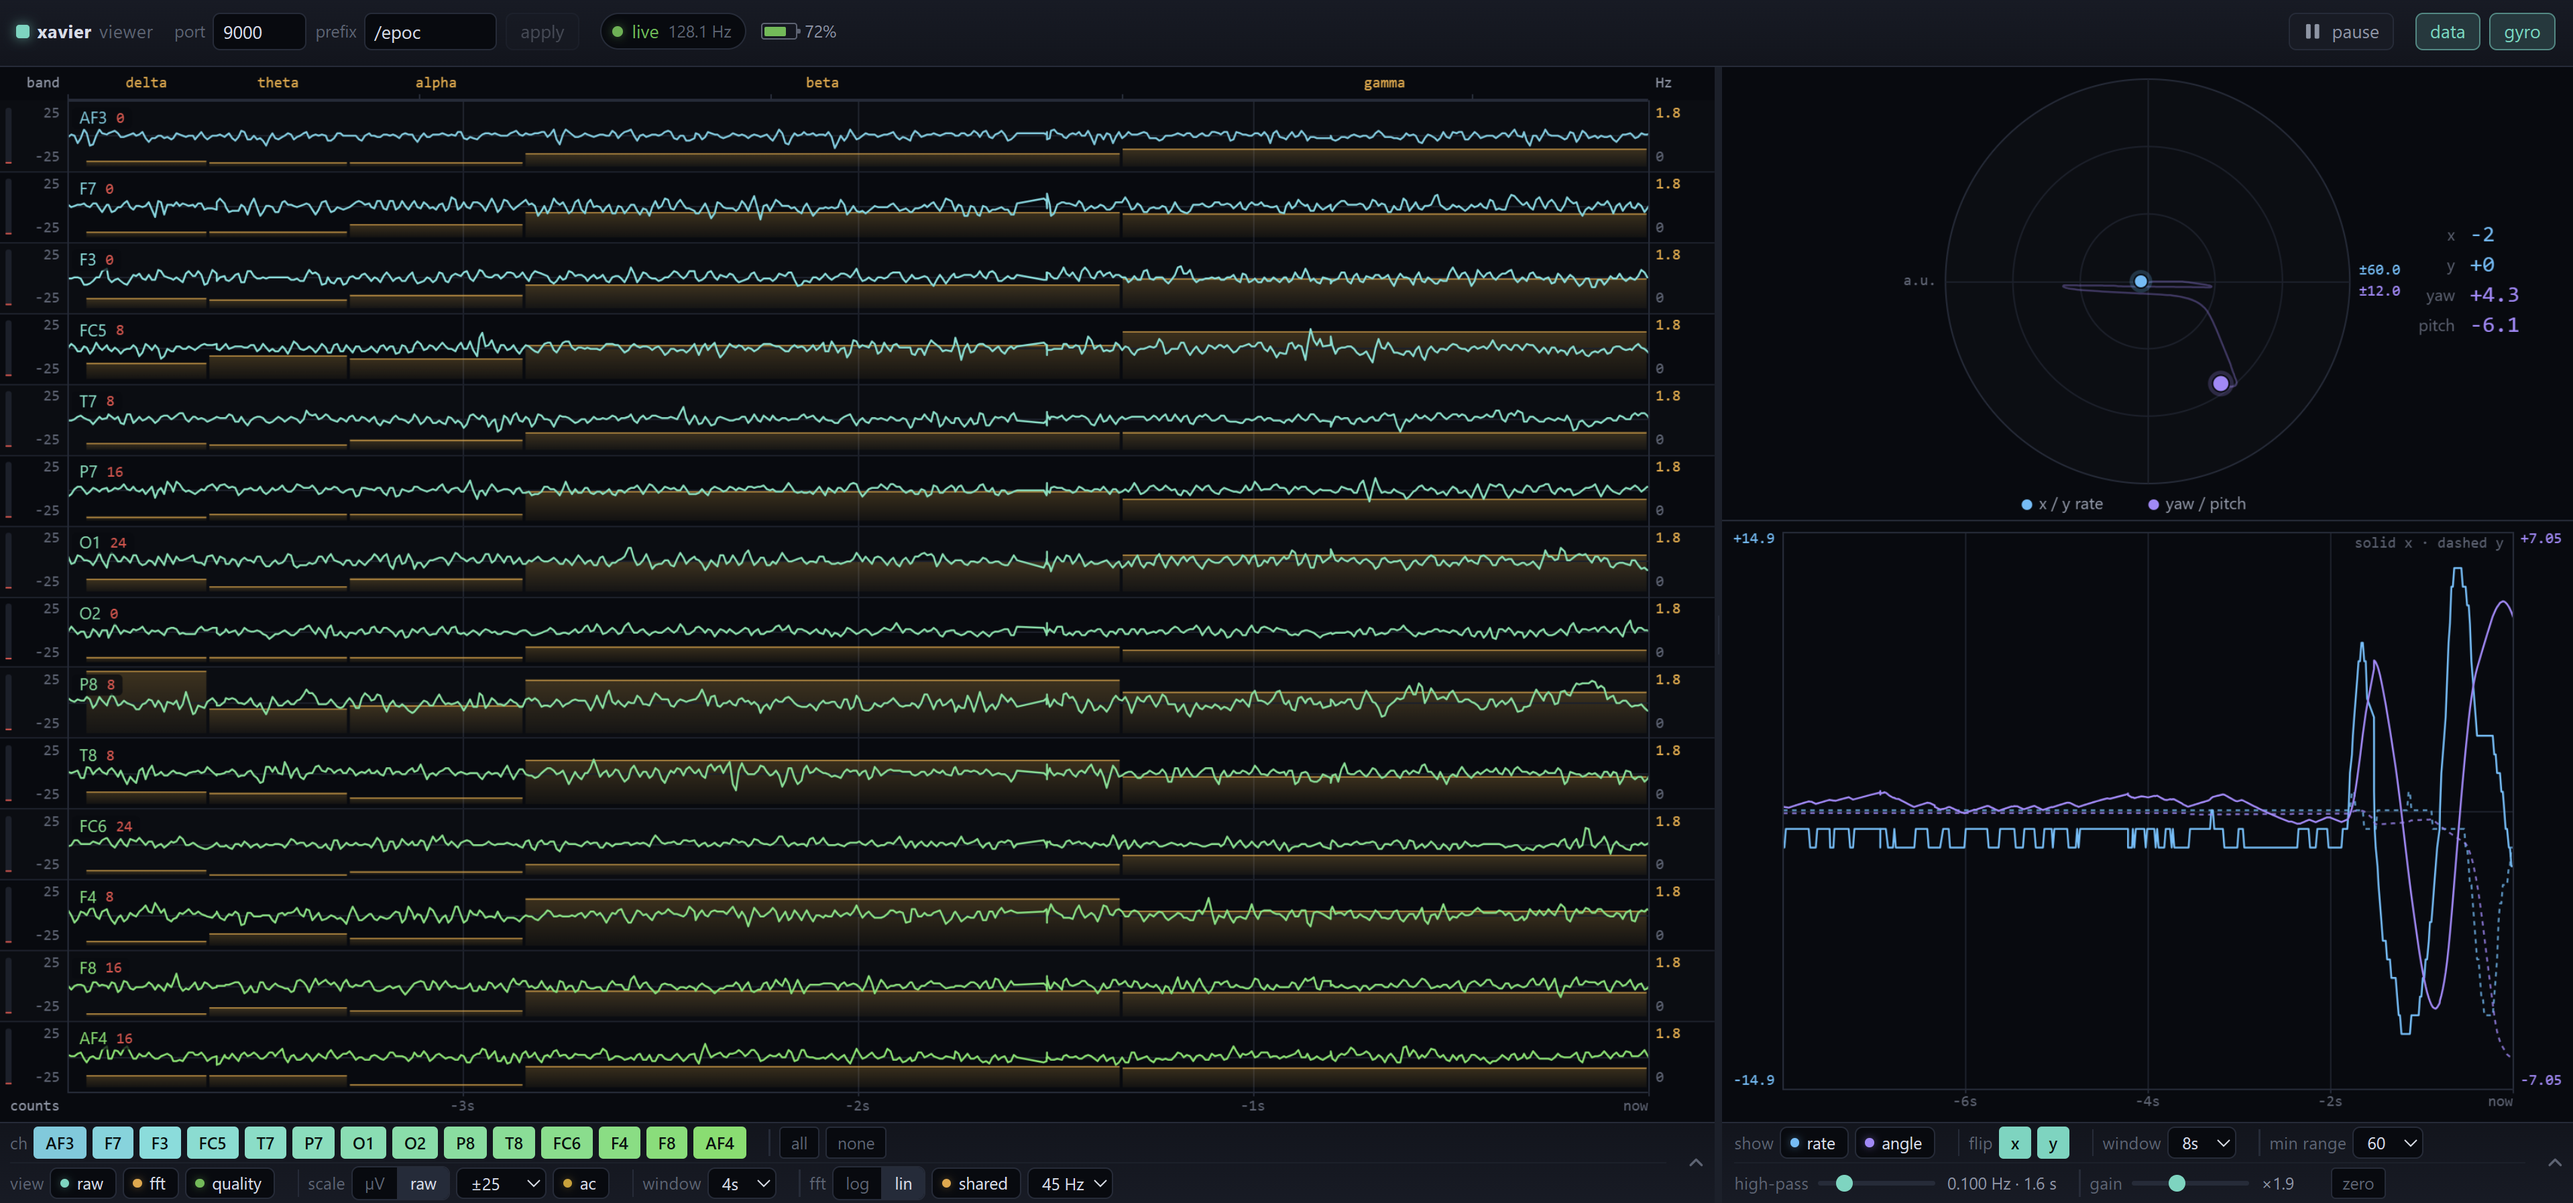
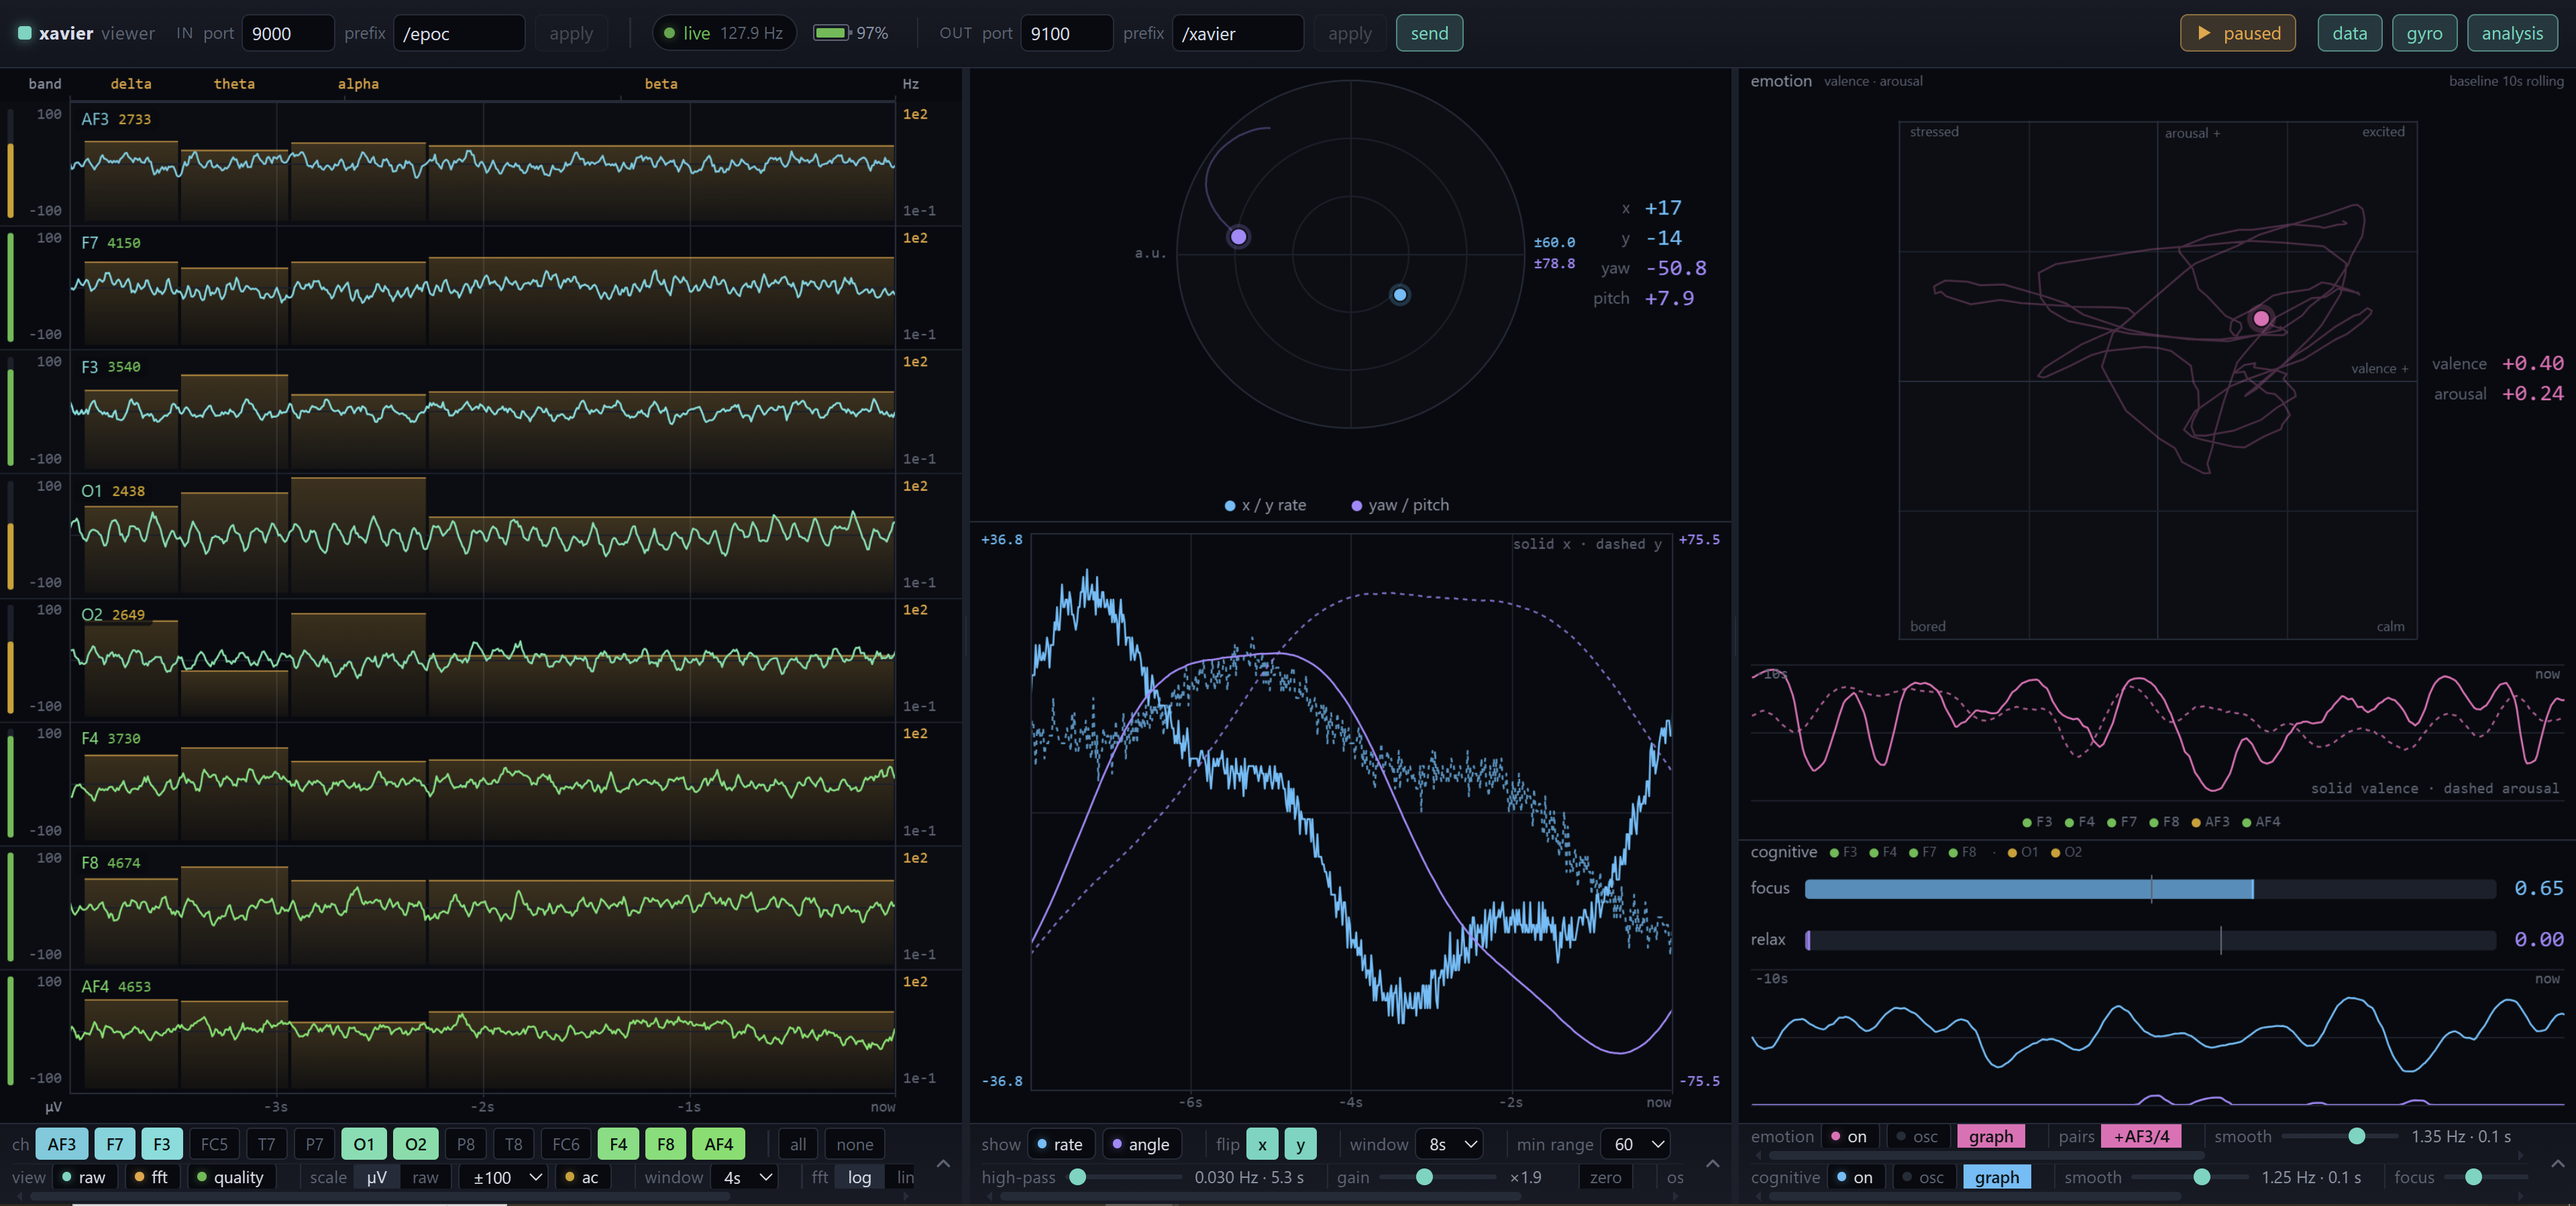
Tweaking battery info streaming.

diff --git a/epoc/cli/main.cpp b/epoc/cli/main.cpp
@@ -37,6 +37,13 @@ constexpr int kQualityGood = 4000;
 /// narrow-terminal warning stays honest if the columns are ever changed.
 constexpr int kTableWidth = 99;
 
+/// How often the battery level is resent over OSC even when it has not
+/// changed, so a receiver that joins mid-stream learns the charge without
+/// waiting for it to move. Only ever tested against a battery frame, which
+/// arrives about once a second, so the real gap is this rounded up to the
+/// next such frame -- close enough for a value that moves in 13 steps.
+constexpr auto kBatteryResend = std::chrono::seconds{5};
+
 struct Options {
     bool list = false;
     bool help = false;
@@ -106,8 +113,9 @@ void print_usage(std::FILE* out) {
         "                               with u, also <prefix>/quality/all\n"
         "Raw and gyro messages are sent per sample (128 Hz); band messages are sent\n"
         "each time the spectrum is recomputed, i.e. once per --refresh interval.\n"
-        "Battery is sent once the first reading arrives and then only when the\n"
-        "charge changes, so it is a rare message rather than a stream.\n"
+        "Battery is sent once the first reading arrives, then whenever the charge\n"
+        "changes and every 5 s regardless, so a receiver that joins late still\n"
+        "learns the level. It is a rare message rather than a stream.\n"
         "The dongle reports quality for one electrode per packet, so quality/all is\n"
         "sent about 34 times a second. q is not on by default: it changes how many\n"
         "arguments the raw messages carry.\n"
@@ -476,20 +484,29 @@ public:
         sender_->send(message_);
     }
 
-    /// Battery charge, normalised to 0..1, on change only.
+    /// Battery charge, normalised to 0..1: on change, and every
+    /// kBatteryResend regardless.
     ///
     /// Gated on is_battery_frame rather than on Frame::battery changing:
     /// that field is sticky and reads 0 until the first battery frame
     /// arrives, so a plain change test would announce a fictitious flat
     /// battery at startup. The dongle substitutes a reading for the sequence
     /// counter once a second, so the first real value follows the start of
-    /// the stream within a second, and after that this fires only when the
-    /// charge actually moves.
+    /// the stream within a second. Gating the resend on the same flag keeps
+    /// that guarantee: a level is never sent before one has been measured.
+    ///
+    /// The resend is what makes this useful to a receiver that joins
+    /// mid-stream: on a healthy headset the charge can sit on one value for
+    /// hours, and change-only semantics over UDP would leave such a receiver
+    /// with nothing at all. At one message every few seconds it is still a
+    /// rare message rather than a stream.
     void send_battery(std::int64_t timestamp, const epoc::Frame& f) {
         if (!flags_.battery || !f.is_battery_frame) return;
         const int level = static_cast<int>(f.battery);
-        if (level == last_battery_) return;
+        const auto now = Clock::now();
+        if (level == last_battery_ && now - last_battery_sent_ < kBatteryResend) return;
         last_battery_ = level;
+        last_battery_sent_ = now;
 
         message_.reset(battery_addr_);
         if (flags_.timestamp) add_timestamp(timestamp);
@@ -542,6 +559,7 @@ private:
     std::string battery_addr_;
     std::string quality_all_addr_;
     int last_battery_ = -1;  // no reading seen yet
+    Clock::time_point last_battery_sent_{};  // epoch: nothing sent yet
     epoc::osc::Message message_;  // reused across sends
 };
 

diff --git a/view/tools/fake_dat.py b/view/tools/fake_dat.py
@@ -37,6 +37,16 @@ FFT_WINDOW = 128          # epoc defaults to 256; 128 keeps pure Python cheap
 FFT_INTERVAL = 1.0 / 16.0  # epoc recomputes per display refresh, ~20 Hz
 DC_COUNTS = 8400          # the EPOC's resting offset, about 4.3 mV
 
+# Battery cadence. The dongle substitutes a charge reading for the sequence
+# counter once a second, and epoc tests its resend timer only on one of those
+# frames -- so BATTERY_RESEND is a floor, not a period, and the gap a receiver
+# actually sees is 5-6 s. Modelling the frame rather than the send reproduces
+# that slack. BATTERY_DRIFT is ours alone: real charge moves in 13 coarse
+# steps and can sit on one for hours, which is exactly why epoc resends.
+BATTERY_FRAME = 1.0
+BATTERY_RESEND = 5.0      # epoc's kBatteryResend
+BATTERY_DRIFT = 60.0
+
 
 def fft(values: Sequence[complex]) -> List[complex]:
     """Iterative radix-2 Cooley-Tukey, in place on a copy.
@@ -208,7 +218,12 @@ def main(argv=None) -> int:
     start = time.time()
     sample_index = 0
     next_fft = 0.0
-    next_battery = 0.0
+    # First reading a second in, not at t=0: until a battery frame arrives the
+    # level is genuinely unknown, and epoc will not invent one.
+    next_battery_frame = BATTERY_FRAME
+    next_battery_drift = BATTERY_DRIFT
+    last_battery_sent = None
+    last_battery_time = 0.0
     # The counter cycles 0..127 and is replaced by a battery reading once a
     # second; quality refreshes on 34 of the 129 states. We do not reproduce
     # the selector table, only its rate.
@@ -284,13 +299,22 @@ def main(argv=None) -> int:
                         addr_fft[i], [timetag] + [float(v) for v in bands]), dest)
                     sent += 1
 
-            if t >= next_battery:
-                # Change-only, like the real thing: the first reading lands
-                # about a second in, then it drifts down slowly.
-                next_battery = t + 60.0
-                sock.sendto(osc.encode_message(addr_battery, [timetag, float(battery)]), dest)
-                battery = max(0.0, battery - 0.01)
-                sent += 1
+            if t >= next_battery_frame:
+                # One synthetic battery frame per second, carrying epoc's own
+                # trigger: send when the charge changed, or when the last send
+                # is at least BATTERY_RESEND old. The charge itself only moves
+                # once a minute, so most of these are resends -- which is the
+                # point, since that is what a viewer joining mid-stream gets.
+                next_battery_frame += BATTERY_FRAME
+                if t >= next_battery_drift:
+                    next_battery_drift += BATTERY_DRIFT
+                    battery = max(0.0, battery - 0.01)
+                if battery != last_battery_sent or t - last_battery_time >= BATTERY_RESEND:
+                    sock.sendto(
+                        osc.encode_message(addr_battery, [timetag, float(battery)]), dest)
+                    last_battery_sent = battery
+                    last_battery_time = t
+                    sent += 1
 
             sample_index += 1
     except KeyboardInterrupt:

diff --git a/epoc/doc/osc.md b/epoc/doc/osc.md
@@ -35,7 +35,7 @@ That ordering in `run()` is deliberate; do not move OSC setup below
 | `<prefix>/quality/all` | `<ts> <af3> <f7> …` (14) | on refresh, ≈34 Hz |
 | `<prefix>/fft/<channel>` | `<ts> <delta> <theta> <alpha> <beta> <gamma>` | per spectrum (≈20 Hz) |
 | `<prefix>/gyro/x`, `<prefix>/gyro/y` | `<ts> <value>` | per sample, 128 Hz |
-| `<prefix>/battery` | `<ts> <level>` | on change only |
+| `<prefix>/battery` | `<ts> <level>` | on change, and every 5 s |
 
 Flags, selected by `--osc-messages`, canonical order `tbrugyq`, default
 `tbrgy`:
@@ -68,12 +68,12 @@ so a receiver can route each independently.
 
 ### Battery semantics
 
-Sent when the first reading arrives, and thereafter only when the value
-changes. The trigger is:
+Sent when the first reading arrives, thereafter when the value changes, and
+every `kBatteryResend` (5 s) regardless. The trigger is:
 
 ```cpp
 if (!flags_.battery || !f.is_battery_frame) return;
-if (level == last_battery_) return;
+if (level == last_battery_ && now - last_battery_sent_ < kBatteryResend) return;
 ```
 
 Gating on `is_battery_frame` rather than on the value changing is deliberate.
@@ -83,10 +83,18 @@ startup. The dongle substitutes a reading for the sequence counter once a
 second, so the first real value follows the start of the stream within about a
 second — measured at 1.15 s.
 
-Known consequence: a receiver started *after* `epoc` sees nothing on
-`/battery` until the charge next moves, which on a healthy headset could be a
-long time. Restarting `epoc` is the current answer. A periodic resend was
-deliberately not added; see [decisions](decisions.md#adr-11).
+The resend is gated on that same flag, so it inherits the guarantee: nothing
+is sent before a level has actually been measured. That also makes the
+interval a floor rather than a period — the resend lands on the first battery
+frame at or after 5 s, so the real gap is 5–6 s. Battery moves in 13 coarse
+steps ([protocol](protocol.md)), so nothing is lost to that slack. The timer
+reads `steady_clock`, not the OSC timestamp, so the cadence does not change
+with `--osc-timestamp`.
+
+The resend is what makes `/battery` useful to a receiver that joins
+mid-stream: under change-only semantics it saw nothing until the charge next
+moved, which on a healthy headset could be hours. See
+[decisions](decisions.md#adr-11).
 
 ### Contact quality semantics
 

diff --git a/README.md b/README.md
@@ -246,7 +246,7 @@ epoc --osc 9000 --osc-messages truqg         # raw + quality, no band powers
 | `<prefix>/quality/all` | `<timestamp> <af3> <f7> ...` (14 values) | on refresh, ~34 Hz |
 | `<prefix>/fft/<channel>` | `<timestamp> <delta> <theta> <alpha> <beta> <gamma>` | per spectrum |
 | `<prefix>/gyro/x`, `<prefix>/gyro/y` | `<timestamp> <value>` | per sample, 128 Hz |
-| `<prefix>/battery` | `<timestamp> <level>` | on change only |
+| `<prefix>/battery` | `<timestamp> <level>` | on change, and every 5 s |
 
 Channel names are lowercased in addresses: `/epoc/raw/af3`. The 14 values in
 `/raw/all` are ordered AF3, F7, F3, FC5, T7, P7, O1, O2, P8, T8, FC6, F4, F8,
@@ -327,14 +327,16 @@ Raw and gyro messages are sent per sample (128 Hz). Band messages are sent
 whenever the spectrum is recomputed, which is once per `--refresh` interval
 (default 50 ms, so about 20 Hz), and only once the FFT window has filled.
 
-Battery is the exception: it is sent once the first reading arrives and then
-only when the charge changes, so expect a handful of messages per session
+Battery is the exception: it is sent once the first reading arrives, then
+whenever the charge changes and every 5 s regardless — a slow heartbeat
 rather than a stream. The dongle substitutes a battery reading for the
 sequence counter once a second, so the first value follows the start of the
 stream within a second — it cannot be sent at the same instant, because
-until that frame arrives the level is genuinely unknown. A receiver started
-after `epoc` will therefore see nothing on `/battery` until the charge next
-moves; restart `epoc` if you need the current value.
+until that frame arrives the level is genuinely unknown. The resend is
+checked only on those once-a-second frames, so the gap is 5–6 s in practice;
+that is deliberate, since the level itself moves in coarse steps. A receiver
+started after `epoc` therefore learns the charge within a few seconds,
+without having to wait for it to change.
 
 Mind the packet rate: `r` alone is 14 messages per sample, about 1800
 datagrams/second. If your receiver struggles, use `u` instead of `r` to get one

diff --git a/epoc/doc/decisions.md b/epoc/doc/decisions.md
@@ -204,10 +204,10 @@ silent.
 
 <a id="adr-11"></a>
 
-## ADR 11 — Battery on change only, flagged `y`
+## ADR 11 — Battery on change plus a 5 s resend, flagged `y`
 
-`<prefix>/battery` carries a 0..1 float, sent when the first reading arrives
-and thereafter only when the value changes.
+`<prefix>/battery` carries a 0..1 float, sent when the first reading arrives,
+whenever the value changes, and every 5 s regardless.
 
 **Why not at literal startup**, as originally requested: `Frame::battery` is
 sticky and reads 0 until the first battery frame arrives, roughly a second
@@ -217,11 +217,19 @@ The trigger is `is_battery_frame && value != last`, which yields the first
 
 **Why `y` and not `b`:** `b` was already band powers.
 
-**Why no periodic resend:** a receiver started after `epoc` will not see the
-level until it next changes, which is a genuine limitation of change-only
-semantics over UDP. The requested behaviour was change-only, so that is what
-was built, and the limitation is documented in the README rather than
-silently designed around.
+**Why a periodic resend** (2026-09-20, superseding the original change-only
+design): a receiver started after `epoc` saw nothing until the level next
+changed, which on a healthy headset could be hours — a genuine limitation of
+change-only semantics over UDP. Change-only was what was originally asked
+for, so it was built that way and the limitation documented rather than
+silently designed around; the resend is the answer now that the limitation
+has been judged not worth living with.
+
+**Why 5 s, and why it is approximate:** the interval is only ever tested
+against a battery frame, and those arrive about once a second, so it is a
+floor and the real gap is 5–6 s. Precision would buy nothing — the value has
+13 distinct steps — and gating on the frame preserves the startup guarantee
+above. One message per 5 s against ~1800/s for `r` costs nothing.
 
 ---
 

diff --git a/doc/development.md b/doc/development.md
@@ -144,10 +144,11 @@ At 128 Hz:
 | `u` | 128 | Same data, one message |
 | `g` | 256 | Two axes |
 | `b` | ~280 | 14 per spectrum, once per `--refresh` (default 50 ms) |
-| `y` | ~0 | On change only; expect one per session |
+| `y` | ~0.2 | On change, plus a resend every 5 s |
 
 A ten-second `tgy` run should produce roughly 1280 gyro-x, 1280 gyro-y and
-exactly one battery message. Counts far off that mean something is wrong.
+two battery messages — one about a second in, the resend about five seconds
+later. Counts far off that mean something is wrong.
 
 ## Editing note
 

diff --git a/epoc/doc/testing.md b/epoc/doc/testing.md
@@ -112,7 +112,7 @@ Know these gaps before trusting a green run:
   untested. The *parsers* they call (`parse_message_flags`,
   `parse_endpoint`, `parse_timestamp_format`) are well covered, so the gap is
   the wiring, not the logic. `OscStreamer`'s send *cadence* is the largest
-  piece of untested policy: that `/battery` fires on change and
+  piece of untested policy: that `/battery` fires on change and every 5 s, and
   `/quality/all` on refresh has only ever been checked by counting datagrams
   off a live headset.
 - **Linux and macOS.** Never compiled, let alone tested.
